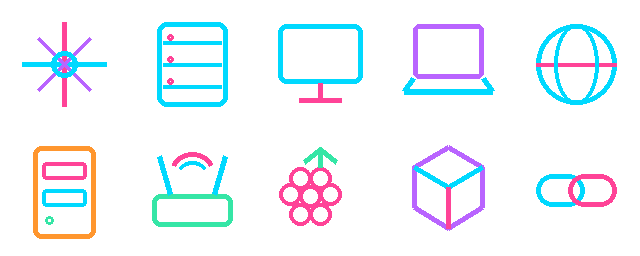
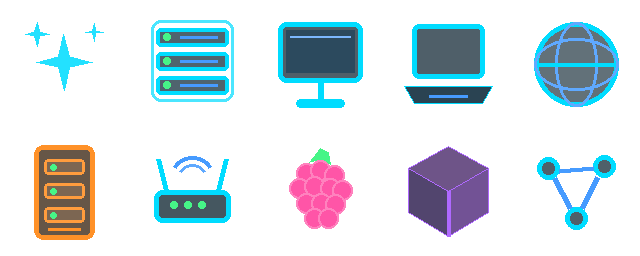
v3.6: finalize cyberpunk default design and UI polish
Final tested v3.6 UI state:
- persistent HypeTek header logo
- bundled cyberpunk default wallpaper
- bundled device icon set
- optional Drag & Drop / right-click help text
- adaptive window sizing with 359 DIP one-row height
- appearance reset without touching server entries

diff --git a/README.md b/README.md
@@ -1,54 +1,65 @@
 <p align="center">
-  <img src="docs/hypetek-logo.png" alt="HypeTek Server Launcher" width="680">
+  <img src="docs/default-theme.jpg" alt="HypeTek Server Launcher default cyberpunk theme" width="820">
 </p>
 
 <h1 align="center">HypeTek Server Launcher</h1>
 
 <p align="center">
-  A lightweight, portable launcher for Windows 10/11 that opens your server web interfaces with one click.
+  A lightweight, portable launcher for Windows 10/11 that opens your server and web interfaces with one click.
 </p>
 
 <p align="center">
   <img alt="Windows 10/11" src="https://img.shields.io/badge/Windows-10%20%7C%2011-0078D6?logo=windows&logoColor=white">
   <img alt="PowerShell 5.1" src="https://img.shields.io/badge/PowerShell-5.1-5391FE?logo=powershell&logoColor=white">
-  <img alt="Version 3.5" src="https://img.shields.io/badge/version-3.5-2ea44f">
+  <img alt="Version 3.6" src="https://img.shields.io/badge/version-3.6%20preview-2ea44f">
   <img alt="MIT License" src="https://img.shields.io/badge/license-MIT-blue">
 </p>
-
-<p align="center">
-  <a href="../../releases/latest"><img alt="Download latest Windows release" src="https://img.shields.io/badge/Download-Latest%20Windows%20Release-2ea44f?style=for-the-badge&logo=github"></a>
-</p>
-
 
 ## Features
 
 - **One-click server access** in your default browser
-- **Drag & Drop reordering** — move server tiles into any order you want
+- **Drag & Drop reordering** with persistent tile order
 - Add, edit and delete server entries
-- Custom button labels
-- **Compact icon dropdown per server**: Auto, Server, PC, Laptop, Website, NAS, Router, Raspberry Pi, VM or Generic
-- Hostnames, IP addresses and custom ports
+- Hostnames, IP addresses, FQDNs and custom ports
 - Multiple entries can use the same host with different ports
 - Per-server button colors plus a configurable default color
-- Full-window custom background image
-- Supported backgrounds: **BMP, PNG, JPG/JPEG, GIF and TIFF**
-- Background modes: Fill, Fit and Stretch
-- Adjustable background dimming for readability
+- **Bundled HypeTek cyberpunk default wallpaper for fresh installs**
+- Custom wallpaper support: **BMP, PNG, JPG/JPEG, GIF and TIFF**
+- Wallpaper modes: Fill, Fit and Stretch
+- Adjustable wallpaper dimming
+- **Bundled neon device icon set** for Server, PC, Laptop, Website, NAS, Router, Raspberry Pi, VM and Generic targets
+- Automatic icon detection or manual per-server icon selection
+- Server address shown below each tile label
+- Icon-specific neon accent borders
 - Languages: **Deutsch, English, Русский**
-- Dynamic layout: only configured servers are visible
-- Compact for 1–3 servers, expands up to 9 and then becomes scrollable
-- Right-click a server tile to edit or delete it
+- Compact dynamic layout with scrolling for larger collections
+- Right-click a tile to edit or delete it
 - Portable: no installer and no administrator rights required
+- **Subtle “Default design” reset** in Settings; it resets appearance only and never deletes server entries
+
+## v3.6 preview behavior
+
+The new cyberpunk appearance is used automatically only when no `settings.json` exists yet.
+
+Existing installations keep their current wallpaper, colors and settings after updating. To switch an existing installation to the bundled appearance, open **Settings** and use the small **Default design** button, then click **Apply**.
+
+The reset affects only:
+
+- default button color
+- wallpaper
+- wallpaper mode
+- wallpaper dimming
+
+It does **not** change or delete saved servers.
 
 ## Download
 
-The ready-to-use build is published under **GitHub Releases**.
+Stable ready-to-use builds are published under **GitHub Releases**.
 
 1. Open **Releases** on the right side of the repository page.
-2. Open the newest release.
-3. Download `HypeTek_ServerLauncher_v3.5_Windows_MIT.zip`.
-4. Extract the ZIP.
-5. Start `Start_ServerLauncher.vbs`.
+2. Download the newest Windows ZIP.
+3. Extract the complete archive, including the `resources` folder.
+4. Start `Start_ServerLauncher.vbs`.
 
 For troubleshooting, start `Start_ServerLauncher.bat` instead. It keeps the console open if startup fails and the launcher can write details to `Error.txt`.
 
@@ -57,12 +68,11 @@ For troubleshooting, start `Start_ServerLauncher.bat` instead. It keeps the cons
 1. Start the launcher.
 2. Click **Add server**.
 3. Enter a button label and server address.
-4. Optionally choose an individual button color.
+4. Optionally choose an individual button color and icon.
 5. Click a server tile to open it.
-6. **Hold the left mouse button and drag a tile onto another tile to change the order.**
+6. Hold the left mouse button and drag a tile onto another tile to change the order.
 7. Right-click a tile to edit or delete it.
-8. In the add/edit dialog, choose an icon manually or keep the automatic icon selection.
-9. Use the gear button to change language, default color, background image and display settings.
+8. Use the gear button to change language, default color, wallpaper and display settings.
 
 Addresses without a protocol automatically use `http://`.
 
@@ -70,36 +80,25 @@ Addresses without a protocol automatically use `http://`.
 192.168.1.10
 server.local
 server.local:8080
+desktop-njdiu99.hydra-wrasse.ts.net
 https://server.local:8443
 ```
 
-## Drag & Drop ordering
+## Bundled resources
 
-The tile order is stored directly in `servers.json`. There is no additional order database or registry entry. After moving a tile, the new order is saved immediately and restored on the next start.
-
-## Program Files support
-
-The launcher remains portable in normal writable folders. If it is placed under `C:\Program Files`, `C:\Program Files (x86)` or another protected/read-only directory, personal data is stored automatically in:
+The application ships with the visual resources required for the default appearance:
 
 ```text
-%LOCALAPPDATA%\HypeTek\ServerLauncher
+resources/
+├─ default-wallpaper.jpg
+└─ device-icons.png
 ```
 
-This includes `servers.json`, `settings.json`, `assets/` and `Error.txt`, so administrator rights are not required. Existing portable configuration is copied there automatically on first use when appropriate.
-
-Fully-qualified hostnames and custom ports are supported, including names such as `desktop-njdiu99.hydra-wrasse.ts.net`.
-
-## Requirements
-
-- Windows 10 or Windows 11
-- Windows PowerShell 5.1
-- WPF / .NET components included with Windows
-
-No additional runtime, installation or administrator rights are required.
+The launcher reads the bundled device symbols from one compact sprite sheet and falls back to Windows glyphs if the sprite cannot be loaded.
 
 ## Configuration & privacy
 
-The launcher stores its local configuration next to the program:
+In a normal writable folder, user configuration is stored next to the program:
 
 ```text
 servers.json
@@ -108,7 +107,25 @@ assets/
 Error.txt
 ```
 
-These files are intentionally excluded from the Git repository so personal server addresses and wallpapers are not accidentally published.
+`assets/` is reserved for **user-selected wallpapers** and is intentionally excluded from the Git repository. Bundled project artwork lives in `resources/`.
+
+If the launcher is placed under `C:\Program Files`, `C:\Program Files (x86)` or another protected/read-only location, personal data is stored automatically in:
+
+```text
+%LOCALAPPDATA%\HypeTek\ServerLauncher
+```
+
+No administrator rights are required.
+
+The launcher does not send saved server addresses or settings anywhere.
+
+## Requirements
+
+- Windows 10 or Windows 11
+- Windows PowerShell 5.1
+- WPF / .NET components included with Windows
+
+No additional runtime is required.
 
 ## Repository files
 
@@ -116,33 +133,35 @@ These files are intentionally excluded from the Git repository so personal serve
 ServerLauncher.ps1       Main application
 Start_ServerLauncher.vbs Recommended silent launcher
 Start_ServerLauncher.bat Troubleshooting launcher
+resources/               Bundled wallpaper and device icons
+docs/                    README screenshots
 README.md                Project documentation
 CHANGELOG.md             Version history
 SECURITY.md              Security information
 LICENSE                  MIT License
-docs/                    README images
 ```
 
 ## Version
 
-Current release: **v3.5**
+Stable release: **v3.5**  
+Development branch / next release: **v3.6**
 
-### v3.5 highlights
+### v3.6 highlights
 
-- Compact per-server icon dropdown
-- New selectable icons: Server, PC, Laptop, Website and NAS
-- Additional Router, Raspberry Pi and VM icons
-- Existing v3.4.x icon assignments remain compatible
-
-
-
-
+- Bundled cyberpunk default wallpaper
+- Bundled neon icon set instead of emoji-only presentation
+- Tile addresses displayed in the main UI
+- Neon accent borders based on device type
+- Non-intrusive “Default design” reset
+- Existing installations keep their settings during an update
 
 ## Deutsch
 
-Der **HypeTek Server Launcher** ist ein portabler Windows-Launcher für Weboberflächen und Serveradressen. Servername, Adresse, Port und Buttonfarbe sind frei konfigurierbar. Per **Drag & Drop** kannst du die Server-Kacheln in die gewünschte Reihenfolge ziehen; diese Reihenfolge wird automatisch gespeichert. Das Symbol einer Kachel kannst du jetzt außerdem **manuell pro Eintrag festlegen** oder weiterhin automatisch erkennen lassen.
+Der **HypeTek Server Launcher** ist ein portabler Windows-Launcher für Weboberflächen, NAS, Server, PCs und andere Netzwerkziele.
 
-Es werden nur tatsächlich angelegte Server angezeigt. Hintergrundbild, Abdunklung und Sprache lassen sich über das Zahnrad einstellen.
+Ab v3.6 bringt eine frische Installation bereits das HypeTek-Cyberpunk-Wallpaper und passende Gerätesymbole mit. Bestehende Konfigurationen werden beim Update **nicht überschrieben**. Wer das neue Standarddesign übernehmen möchte, kann es in den Einstellungen über den kleinen Button **Standarddesign** laden.
+
+Der Design-Reset verändert ausschließlich Darstellungseinstellungen und löscht keine Server.
 
 ## License
 

diff --git a/CHANGELOG.md b/CHANGELOG.md
@@ -1,6 +1,39 @@
+# v3.6.4 - Window sizing correction
+
+- Corrects the one-row startup height after introducing the 88-DIP persistent header logo.
+- One-row window now starts at 350 DIPs instead of 330 DIPs.
+- Bottom breathing room is intended to mirror the gap between the Add Server button and the first tile.
+- Additional tile rows still grow automatically by 118 DIPs per row.
+- Existing wallpaper, header-logo overlay and ShowHint setting are unchanged.
+
 # Changelog
 
 All notable changes to HypeTek Server Launcher are documented here.
+
+## [3.6] - Unreleased
+
+### v3.6.2 preview UI polish
+- Larger default startup window (1060 × 570) so the branded header and wallpaper are not cramped.
+- Window auto-height no longer shrinks the launcher back to the old compact size.
+- New persistent setting to show/hide the Drag & Drop / right-click help text.
+- Keeps the persistent transparent HypeTek header logo and resilient bundled wallpaper fallback.
+
+### Added
+- Bundled HypeTek cyberpunk default wallpaper for fresh installations.
+- Bundled neon PNG icon set for Server, PC, Laptop, Website, NAS, Router, Raspberry Pi, VM and Generic targets.
+- Server addresses are now shown below tile labels.
+- Device-type accent borders for server tiles.
+- Subtle **Default design** action in Settings.
+
+### Changed
+- Fresh installations now start with the bundled wallpaper, a darker default tile color and 28% background dimming.
+- Product title is consistently shown as **HypeTek Server Launcher** in all interface languages.
+- Existing installations keep their current settings; the new appearance is not forced on upgrades.
+- Bundled application artwork is stored under `resources/`, while user-selected wallpapers continue to use `assets/`.
+
+### Safety / compatibility
+- The Default design action resets appearance settings only and does not modify or delete saved servers.
+- Missing bundled icon files fall back to the existing Windows glyphs.
 
 ## [3.5] - 2026-08-24
 
@@ -76,3 +109,9 @@ All notable changes to HypeTek Server Launcher are documented here.
 - Default and per-server button colors.
 - German, English and Russian localization.
 - Right-click actions for editing and deleting server entries.
+
+### v3.6.3 Preview - compact adaptive start height
+- Default start width remains 1060 px, but the one-row start height returns to a compact 330 px.
+- Bottom spacing below the last tile now approximately mirrors the gap between the Add button and the first tile.
+- Additional server rows grow the window by one full tile row (118 px) up to three visible rows.
+- Existing manual larger window sizes are not forced smaller during refresh.

diff --git a/RELEASE_NOTES_v3.6.md b/RELEASE_NOTES_v3.6.md
@@ -1,0 +1,23 @@
+# HypeTek Server Launcher v3.6 — Preview Notes
+
+v3.6 refreshes the out-of-box appearance without taking control away from existing users.
+
+## New
+- HypeTek cyberpunk wallpaper is bundled and enabled on fresh installs.
+- Custom neon device icons are bundled with the application.
+- Tile addresses are visible below the server name.
+- Device types receive matching neon accent borders.
+- Settings include a small **Default design** button.
+
+## Upgrade behavior
+Existing `settings.json` files are respected. Updating from v3.5 does not replace a user's wallpaper or colors automatically.
+
+To try the new appearance on an existing installation:
+1. Open Settings.
+2. Click **Default design**.
+3. Click **Apply**.
+
+Saved servers are not modified.
+
+## Packaging
+The release ZIP must include the full `resources/` folder next to `ServerLauncher.ps1`.
